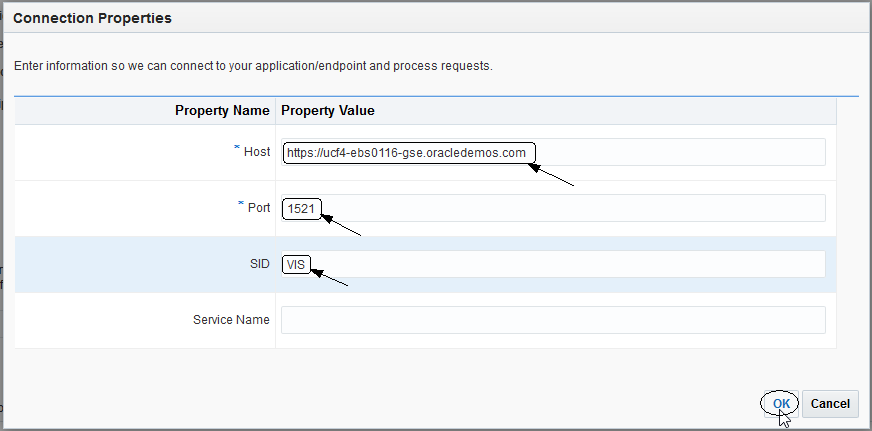
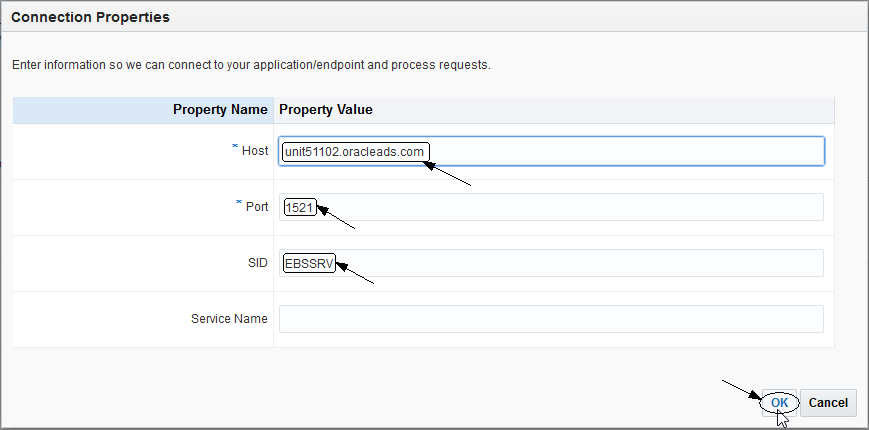
Added images for ICS Created

Changed region(s): [[0.0, 0.0, 1.0, 0.9977], [0.2175, 0.7256, 0.3107, 0.7558]]

diff --git a/deep-dive-ics/ics300.md b/deep-dive-ics/ics300.md
@@ -95,8 +95,8 @@ SoapUI will be used to test the exposed Web Service endpoint of the ICS integrat
 
 **1.2.4** Fill in the information for the new connection 
 
-- **Name** in the form of _UserXX SOAP_ where XX is the number in your allocated user.
-- **Role** _Trigger_ since we going to use the connection as a trigger to start the integration
+- **Name:** Enter in the form of _UserXX SOAP_ where XX is the number in your allocated user.
+- **Role:** Select _Trigger_ since we going to use the connection as a trigger to start the integration
 
 Note that the **Identifier** will automatically be created based on the **Name** you entered.
 
@@ -170,8 +170,8 @@ Your new SOAP connection appears in the list of configured connections and is ev
 
 **1.3.4** Fill in the information for the new connection:
 
-- **Name** in the form of _UserXX EBS DB APPS_ where XX is the number in your allocated user.
-- **Role** _Invoke_ since we going to call the connection as an invocation from the integration
+- **Name:** Enter in the form of _UserXX EBS DB APPS_ where XX is the number in your allocated user.
+- **Role:** Select _Invoke_ since we going to call the connection as an invocation from the integration
 
 Note that the **Identifier** will automatically be created based on the **Name** you entered.
 
@@ -187,7 +187,7 @@ Note that the **Identifier** will automatically be created based on the **Name**
 
 - **Host:** - `unit51102.oracleads.com` - this is only an example of an EBS hostname and may not be the EBS instance used in your workshop
 - **Port:** - `1521` - this is the default database port for the EBS database
-- **SID:** - `EBSSRV` - this is the service name for the sample EBS database we will be using
+- **SID:** - `EBSSRV` - this is the Service ID for the sample EBS database we will be using
 - **Service Name:** - leave this blank, you need either a SID, which we gave, or a Service Name but not both
 
 ![](images/300/image024.png) 
@@ -198,7 +198,7 @@ Note that the **Identifier** will automatically be created based on the **Name**
 
 **1.3.9** Enter the following Username and Password for the EBS adapter connection.
 
-The following values are the default EBS VIS DB schema username/password and may not be the one used in your workshop.  
+The following values are the default EBS DB schema username/password and may not be the one used in your workshop.  
 Your workshop instructor will tell you if it needs to be changed.
 
 - **Username:** - `apps` 
@@ -233,6 +233,8 @@ Note how the progress indicator will go from 85% to 100% after the connection te
 ![](images/300/image030.png)
 
 Your new Database connection appears in the list of configured connections and is even marked as **New** !
+
+**Note** how the icon for the connection is different between the SOAP and Database connector.
 
 ![](images/300/image031.png) 
 
